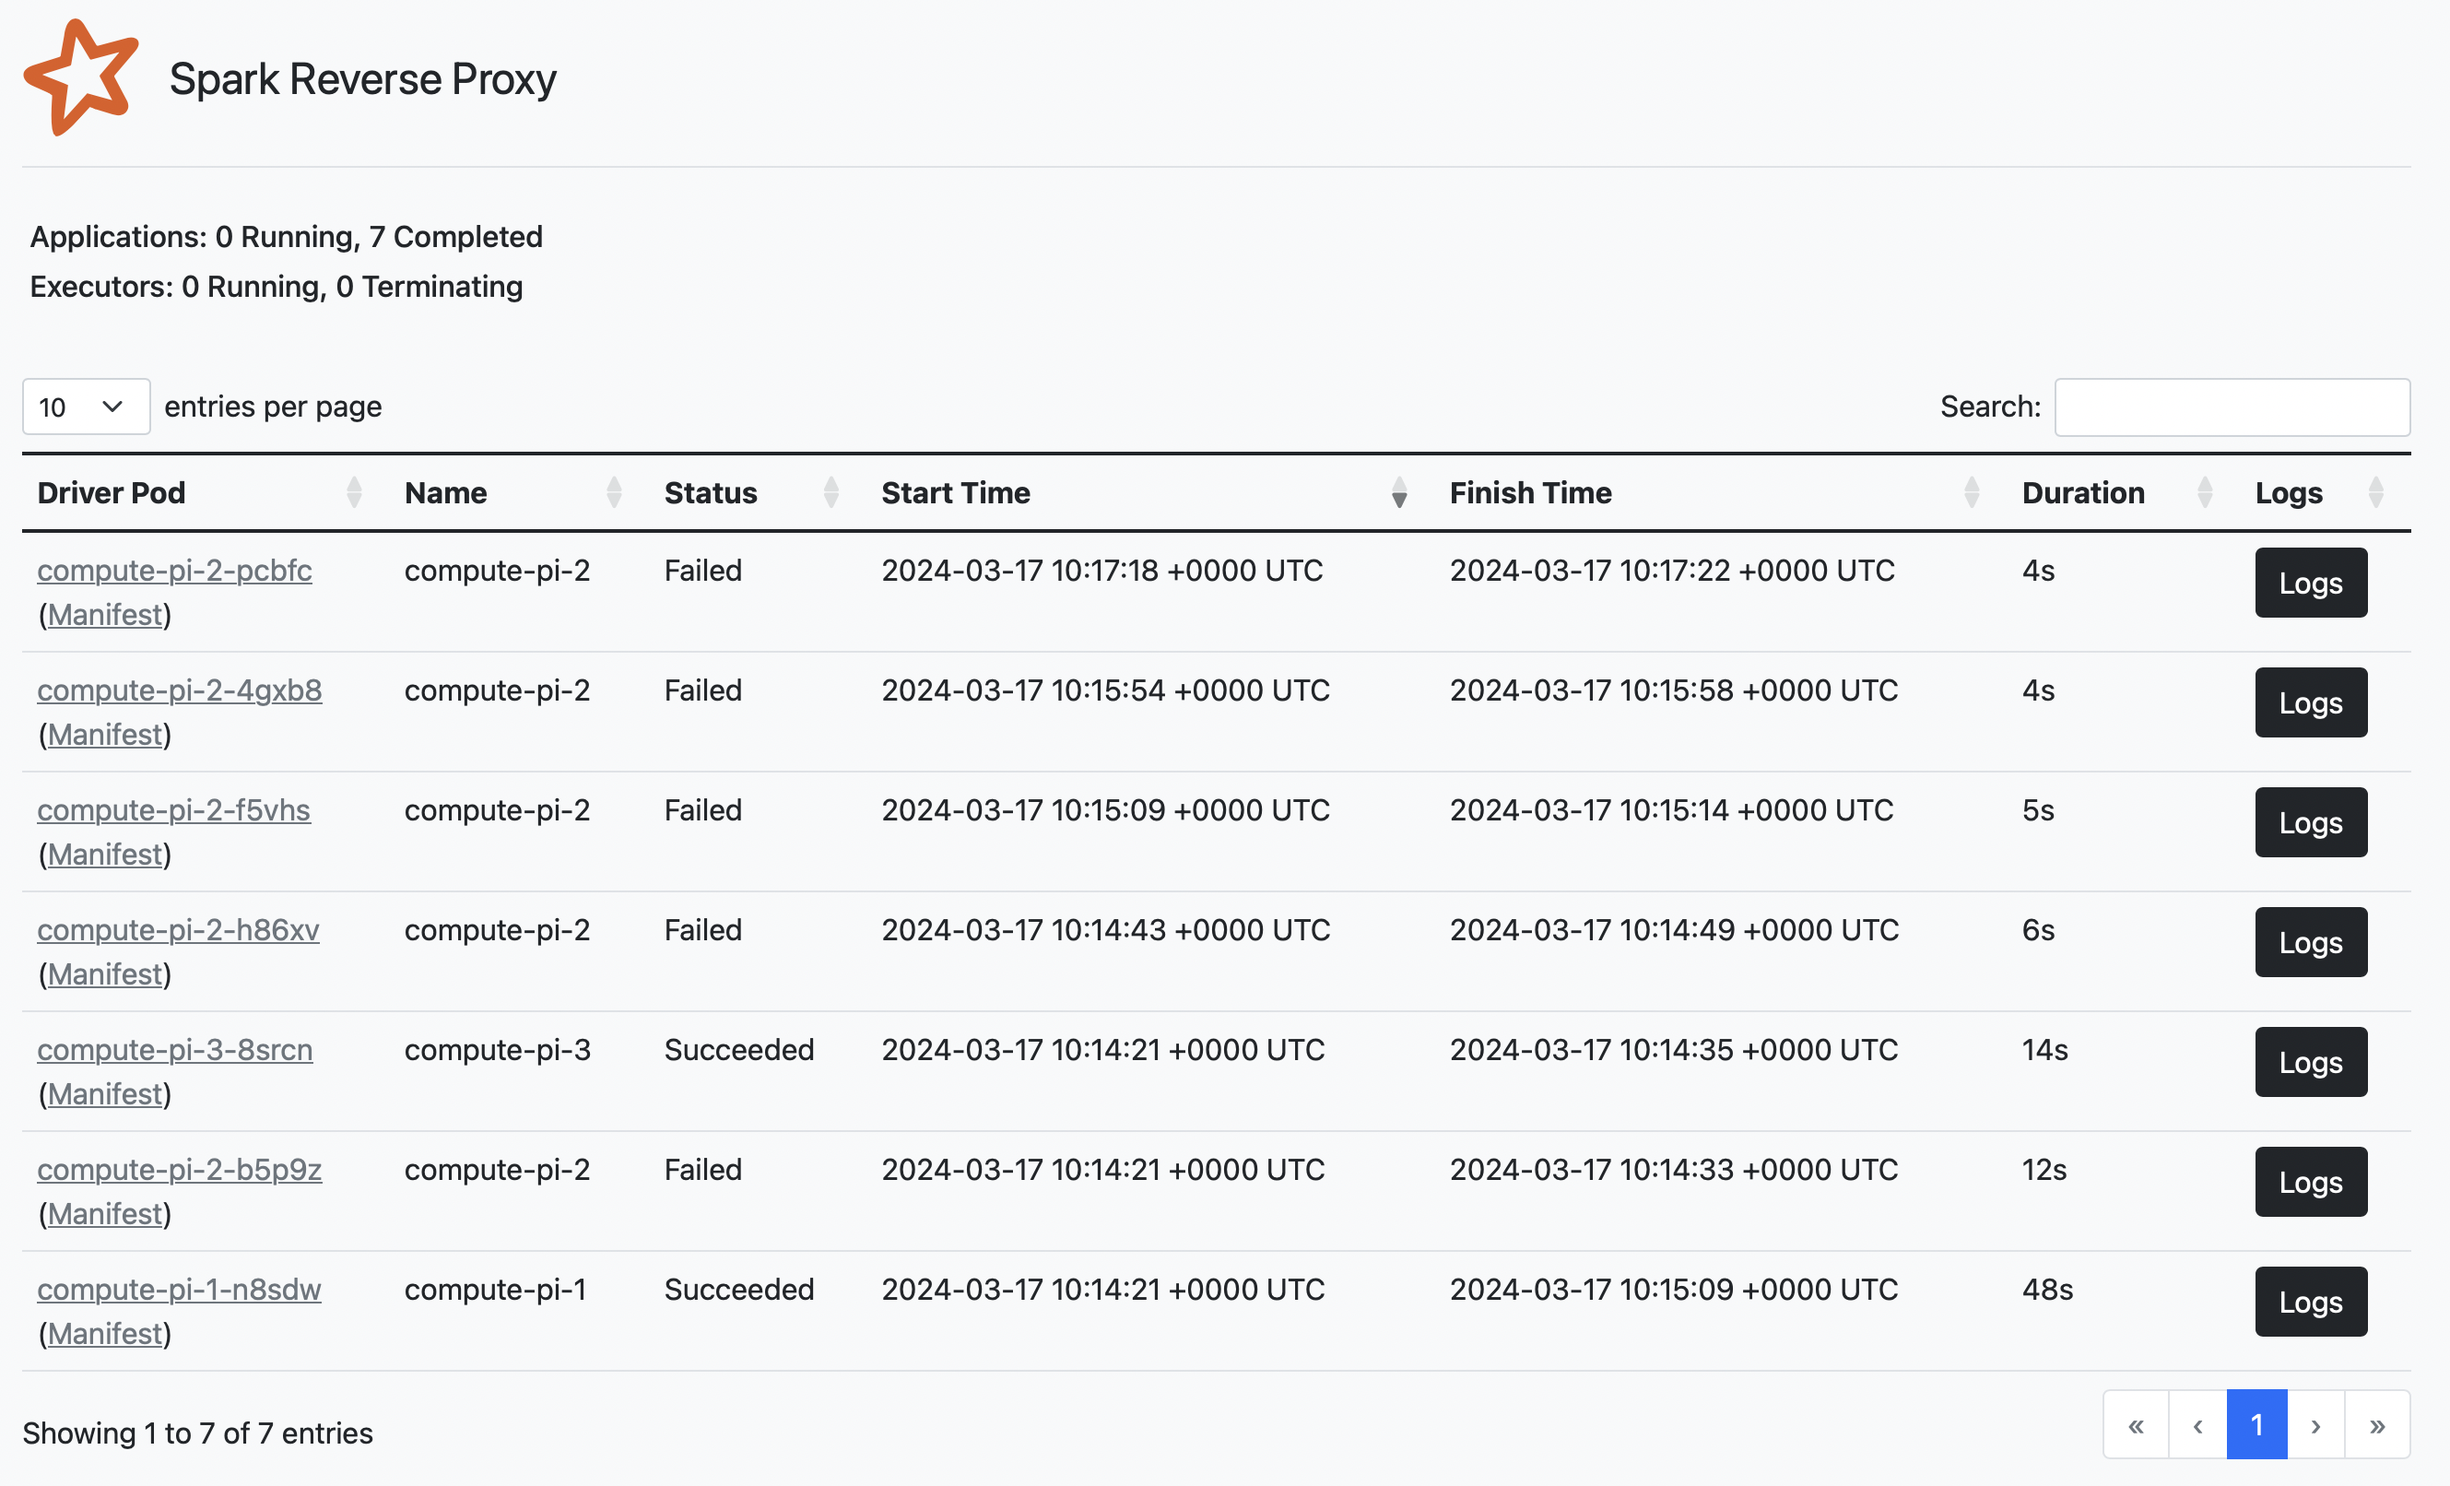
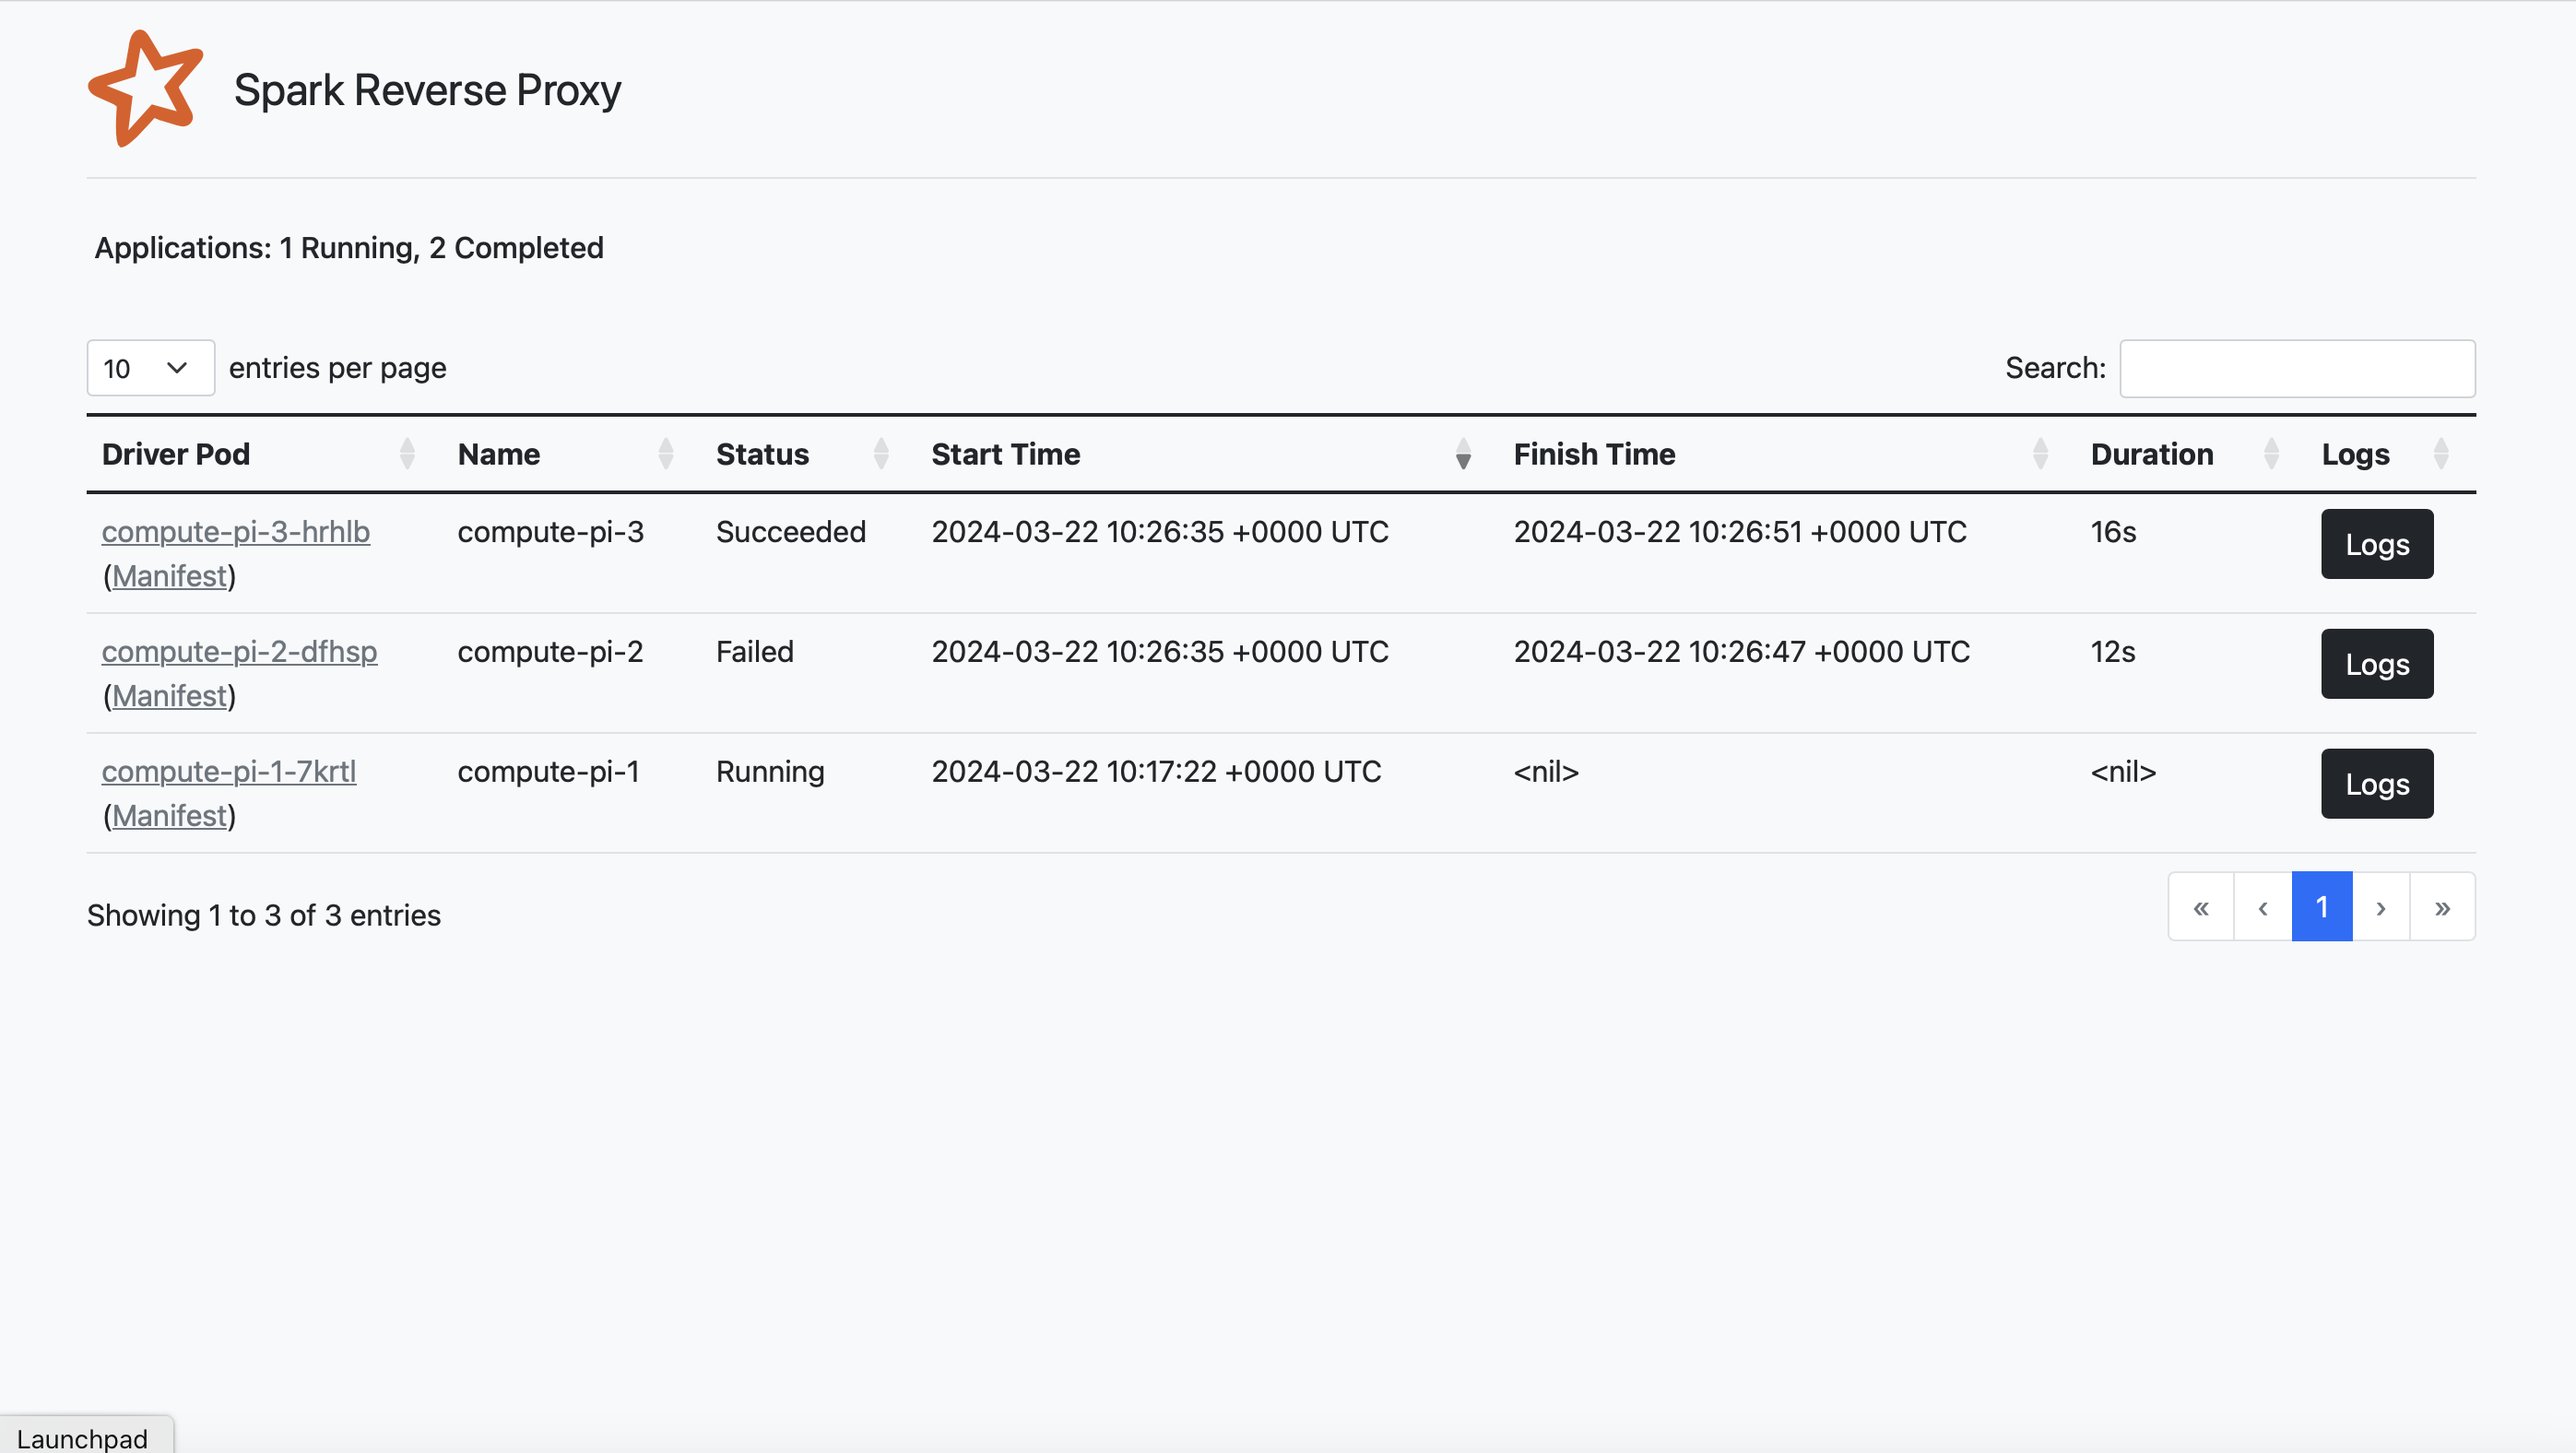
Add CI with github actions

diff --git a/src/handlers/proxy/sparkui.go b/src/handlers/proxy/sparkui.go
@@ -1,7 +1,7 @@
 package proxy
 
 import (
-	"context"
+	"errors"
 	"fmt"
 	"github.com/gin-gonic/gin"
 	v1 "k8s.io/apimachinery/pkg/apis/meta/v1"
@@ -15,19 +15,38 @@ import (
 	"strings"
 )
 
-var sparkUIAppNameURLRegex = regexp.MustCompile("{{\\s*[$]appName\\s*}}")
+var sparkUIAppNameURLRegex = regexp.MustCompile("{{\\s*[$]driverIP\\s*}}")
 var sparkUIAppNamespaceURLRegex = regexp.MustCompile("{{\\s*[$]appNamespace\\s*}}")
+var sparkUIAppIdRegex = regexp.MustCompile(`(?m)\/proxy\/(spark-\w{32})`)
+var sparkUIDriverIdRegex = regexp.MustCompile(`(?m)\/proxy\/([^\/]*)`)
 
-func getSparkUIServiceUrl(sparkUIServiceUrlFormat string, appName string, appNamespace string) string {
-	return sparkUIAppNamespaceURLRegex.ReplaceAllString(sparkUIAppNameURLRegex.ReplaceAllString(sparkUIServiceUrlFormat, appName), appNamespace)
+func getSparkUIServiceUrl(sparkUIServiceUrlFormat string, driverIP string, appNamespace string) string {
+	return sparkUIAppNamespaceURLRegex.ReplaceAllString(sparkUIAppNameURLRegex.ReplaceAllString(sparkUIServiceUrlFormat, driverIP), appNamespace)
 }
 
-func ServeSparkUI(c *gin.Context, config *handlers.ApiConfig, namespace string, uiRootPath string, appToSvcMap map[string]string, k8sClientSet *kubernetes.Clientset) {
+func flattenIPAddress(ip string) string {
+	return strings.ReplaceAll(ip, ".", "-")
+}
+
+func parseId(uri string, regex *regexp.Regexp) (string, error) {
+	match := regex.FindAllStringSubmatch(uri, 1)
+	if len(match) != 0 {
+		return match[0][1], nil
+	} else {
+		return "", errors.New("No Id found in path.")
+	}
+}
+
+func ServeSparkUI(c *gin.Context, config *handlers.ApiConfig, namespace string, uiRootPath string, driverToSvcMap map[string]string, appIdToDriverMap map[string]string, k8sClientSet *kubernetes.Clientset) {
 	path := c.Param("path")
 	// remove / prefix if there is any
 	if strings.HasPrefix(path, "/") {
 		path = path[1:]
 	}
+
+	appId, _ := parseId(c.Request.URL.Path, sparkUIAppIdRegex)
+	driverId, _ := parseId(c.Request.Referer(), sparkUIDriverIdRegex)
+
 	// get application name
 	appName := ""
 	index := strings.Index(path, "/")
@@ -39,29 +58,35 @@ func ServeSparkUI(c *gin.Context, config *handlers.ApiConfig, namespace string, 
 		path = path[index+1:]
 	}
 
-	pods, err := k8sClientSet.CoreV1().Pods(namespace).List(context.TODO(), v1.ListOptions{
-		LabelSelector: fmt.Sprintf("spark-app-selector=%s,spark-role=driver", appName),
-	})
+	if val, ok := appIdToDriverMap[appId]; ok {
+		appName = val
+	} else if driverId != appId {
+		appIdToDriverMap[appId] = driverId
+		appName = driverId
+		log.Printf("Map = %s", appIdToDriverMap)
+	}
 
-	var driverSvc = ""
+	pod, err := k8sClientSet.CoreV1().Pods(namespace).Get(c, appName, v1.GetOptions{})
+	var driverIP = ""
 
-	if val, ok := appToSvcMap[appName]; ok {
-		driverSvc = val
-	} else if len(pods.Items) > 0 {
-		driverSvc = pods.Items[0].Name
-		appToSvcMap[appName] = driverSvc
-		log.Printf("Map = %s", appToSvcMap)
+	if val, ok := driverToSvcMap[appName]; ok {
+		driverIP = val
+	} else if err == nil {
+		driverIP = flattenIPAddress(pod.Status.PodIP)
+		driverToSvcMap[appName] = driverIP
+		log.Printf("Map = %s", driverToSvcMap)
 	}
 
 	// get url for the underlying Spark UI Kubernetes service, which is created by spark-on-k8s-operator
-	sparkUIServiceUrl := getSparkUIServiceUrl(config.SparkUIServiceUrl, driverSvc, config.SparkApplicationNamespace)
+	sparkUIServiceUrl := getSparkUIServiceUrl(config.SparkUIServiceUrl, driverIP, config.SparkApplicationNamespace)
 	proxyBasePath := ""
 	if config.ModifyRedirectUrl {
-		proxyBasePath = fmt.Sprintf("%s/%s", uiRootPath, driverSvc)
+		proxyBasePath = fmt.Sprintf("%s/%s", uiRootPath, appName)
 	}
-	proxy, err := newReverseProxy(sparkUIServiceUrl, path, proxyBasePath, driverSvc)
+
+	proxy, err := newReverseProxy(sparkUIServiceUrl, path, proxyBasePath, appName)
 	if err != nil {
-		c.AbortWithError(http.StatusInternalServerError, fmt.Errorf("failed to create reverse proxy for application %s: %s", driverSvc, err.Error()))
+		c.AbortWithError(http.StatusInternalServerError, fmt.Errorf("failed to create reverse proxy for application %s: %s", appName, err.Error()))
 		return
 	}
 
@@ -85,10 +110,6 @@ func newReverseProxy(sparkUIServiceUrl string, targetPath string, proxyBasePath 
 		url.RawQuery = req.URL.RawQuery
 		url.RawFragment = req.URL.RawFragment
 		req.URL = url
-
-		//req.Header.Add("X-Forwarded-Context", appName)
-		log.Printf("Reverse proxy: serving backend url %s for originally requested url %s", url, req.URL)
-		log.Printf("Headers X-Forwarded-Context=%s", req.Header.Get("X-Forwarded-Context"))
 	}
 
 	modifyResponse := func(resp *http.Response) error {

diff --git a/src/handlers/proxy/sparkui_test.go b/src/handlers/proxy/sparkui_test.go
@@ -16,3 +16,49 @@ func Test_getSparkUIServiceUrl(t *testing.T) {
 		getSparkUIServiceUrl(
 			"http://{{$appName}}-ui-svc.{{$appNamespace}}.svc.cluster.local:4040", "app1", "ns1"))
 }
+
+func Test_parseId_AppId(t *testing.T) {
+
+	possibleTestCases := [5]string{
+		"/proxy/spark-60eb448201a44300bc30f3ac638a9c58",
+		"/proxy/spark-60eb448201a44300bc30f3ac638a9c58/",
+		"/proxy/spark-60eb448201a44300bc30f3ac638a9c58/jobs",
+		"/proxy/spark-60eb448201a44300bc30f3ac638a9c58/jobs/",
+		"/proxy/spark-60eb448201a44300bc30f3ac638a9c58/jobs/adzfazef?q=zdz",
+	}
+
+	for _, v := range possibleTestCases {
+		result, err := parseId(v, sparkUIAppIdRegex)
+		assert.NoError(t, err)
+		assert.Equal(t, "spark-60eb448201a44300bc30f3ac638a9c58", result)
+	}
+
+	errorTestCases := [5]string{
+		"/proxy/spark-60eb448201a44300bc30f",
+		"/proxy/any-60eb448201a44300bc30f3ac638a9c58/",
+		"/proxy/SPARK-60eb448201a44300bc30f3ac638a9c58/jobs",
+		"/proxy/Spark-60eb448201a44300bc30f3ac638a9c58/jobs/",
+		"/proxy/spaRk-60eb448201a44300bc30f3ac638a9c58/jobs/adzfazef?q=zdz",
+	}
+
+	for _, v := range errorTestCases {
+		_, err := parseId(v, sparkUIAppIdRegex)
+		assert.Error(t, err)
+	}
+}
+
+func Test_parseId_DriverId(t *testing.T) {
+
+	possibleTestCases := [4]string{
+		"/proxy/compute-pi-1-d95wz",
+		"/proxy/compute-pi-1-d95wz/",
+		"/proxy/compute-pi-1-d95wz/jobs/",
+		"/proxy/compute-pi-1-d95wz/jobs?q=efef",
+	}
+
+	for _, v := range possibleTestCases {
+		result, err := parseId(v, sparkUIDriverIdRegex)
+		assert.NoError(t, err)
+		assert.Equal(t, "compute-pi-1-d95wz", result)
+	}
+}

diff --git a/src/main.go b/src/main.go
@@ -11,7 +11,7 @@ import (
 var (
 	namespace         = flag.String("namespace", "default", "The Kubernetes namespace where Spark applications are running.")
 	port              = flag.Int("port", 8000, "Server port for this reverse proxy.")
-	driverSvc         = flag.String("driver-svc", "http://{{$appName}}-svc.default.svc.cluster.local:4040", "Spark UI Service URL, this should point to the Spark driver service which provides Spark UI inside that driver.")
+	driverSvc         = flag.String("driver-svc", "http://{{$driverIP}}.{{$appNamespace}}.pod.cluster.local:4040", "Spark UI Service URL, this should point to the Spark driver service which provides Spark UI inside that driver.")
 	modifyRedirectUrl = flag.Bool("modify-redirect-url", false, "Whether to modify redirect url in the HTTP response returned from the Spark UI.")
 	proxyBaseUri      = flag.String("proxy-base-uri", "proxy", "the proxy base uri.")
 	templatesPath     = flag.String("templates", getTemplatePath(), "the proxy templates path")

diff --git a/src/server/server.go b/src/server/server.go
@@ -67,11 +67,12 @@ func Run(config Config) {
 		api.Manifest(context, config.SparkApplicationNamespace, k8sClientSet)
 	})
 
-	var appToSvcMap = make(map[string]string)
+	var driverToSvcMap = make(map[string]string)
+	var driverToAppIdMap = make(map[string]string)
 
-	router.GET(fmt.Sprintf("/%s/*path", config.ProxyBaseUri),
+	router.GET(fmt.Sprintf("/proxy/*path"),
 		func(context *gin.Context) {
-			proxy.ServeSparkUI(context, &apiConfig, config.SparkApplicationNamespace, fmt.Sprintf("/%s", config.ProxyBaseUri), appToSvcMap, k8sClientSet)
+			proxy.ServeSparkUI(context, &apiConfig, config.SparkApplicationNamespace, fmt.Sprintf("/%s", config.ProxyBaseUri), driverToSvcMap, driverToAppIdMap, k8sClientSet)
 		})
 
 	router.Run(fmt.Sprintf(":%d", port))

diff --git a/src/handlers/pages/homepage.go b/src/handlers/pages/homepage.go
@@ -69,7 +69,6 @@ func Homepage(c *gin.Context, namespace string, k8sClientSet *kubernetes.Clients
 
 	homeData.Applications = sparkApps
 	homeData.Stats.Application = models.StatsCount{Running: runningApps, Completed: completedApps}
-	homeData.Stats.Executors = models.StatsCount{Running: 0, Completed: 0}
 
 	c.HTML(http.StatusOK, "index.tmpl", gin.H{"title": "Spark Reverse Proxy", "apps": homeData})
 }

diff --git a/src/models/Application.go b/src/models/Application.go
@@ -2,7 +2,6 @@ package models
 
 type Stats struct {
 	Application StatsCount
-	Executors   StatsCount
 }
 
 type StatsCount struct {

diff --git a/README.md b/README.md
@@ -4,20 +4,32 @@ This is a simple Spark UI reverse proxy to ease accessing the UI when working wi
 
 ## Screenshots
 
+Home Page :
 ![](docs/screenshot-home.png)
 
-## Architecture
+Driver's Logs Page :
+![](docs/screenshot-logs.png)
 
-TBC
+Driver's Manifest Page :
+![](docs/screenshot-manifest.png)
 
 ## Setup
-### In Cluster
 
-TBC
+The reverse proxy relies on label selection to list spark drivers, thus you need to add the following label depending on
+submission mode :
+- In client mode: you need to add the label `spark-role=driver` and expose port 4040
+- In cluster mode: all labels are already added by default
 
-### Out of Cluster
-
-TBC
+In the spark submit command, you need to enable reverse proxy as follows :
+```bash
+/opt/spark/bin/./spark-submit \
+    --master k8s://https://kubernetes.default.svc:443 \
+    --deploy-mode client \
+    --name $JOB_NAME \
+    ...\
+    --conf spark.ui.reverseProxy=true \
+    file:///opt/spark/examples/jars/spark-examples_2.12-3.5.0.jar "$1"
+```
 
 ## Development
 This project requires :
